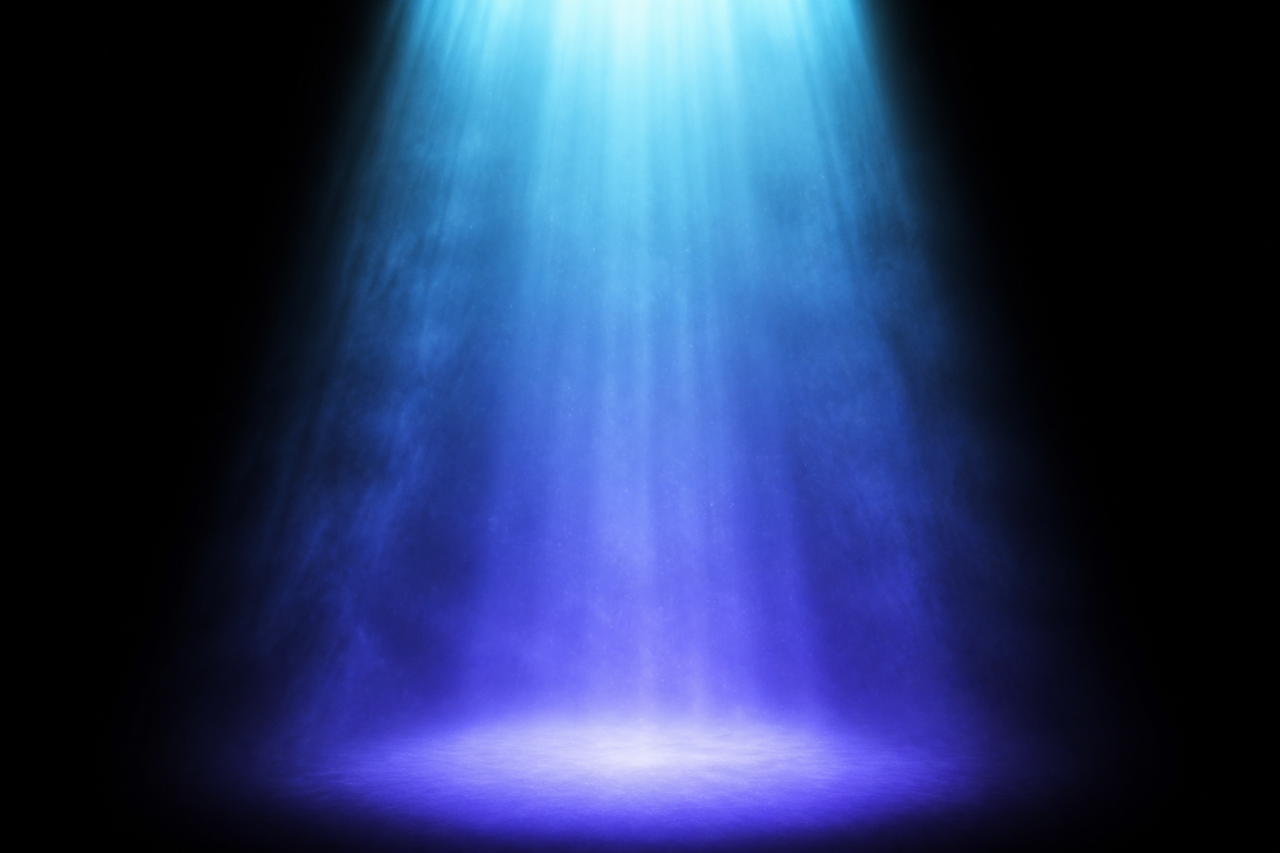
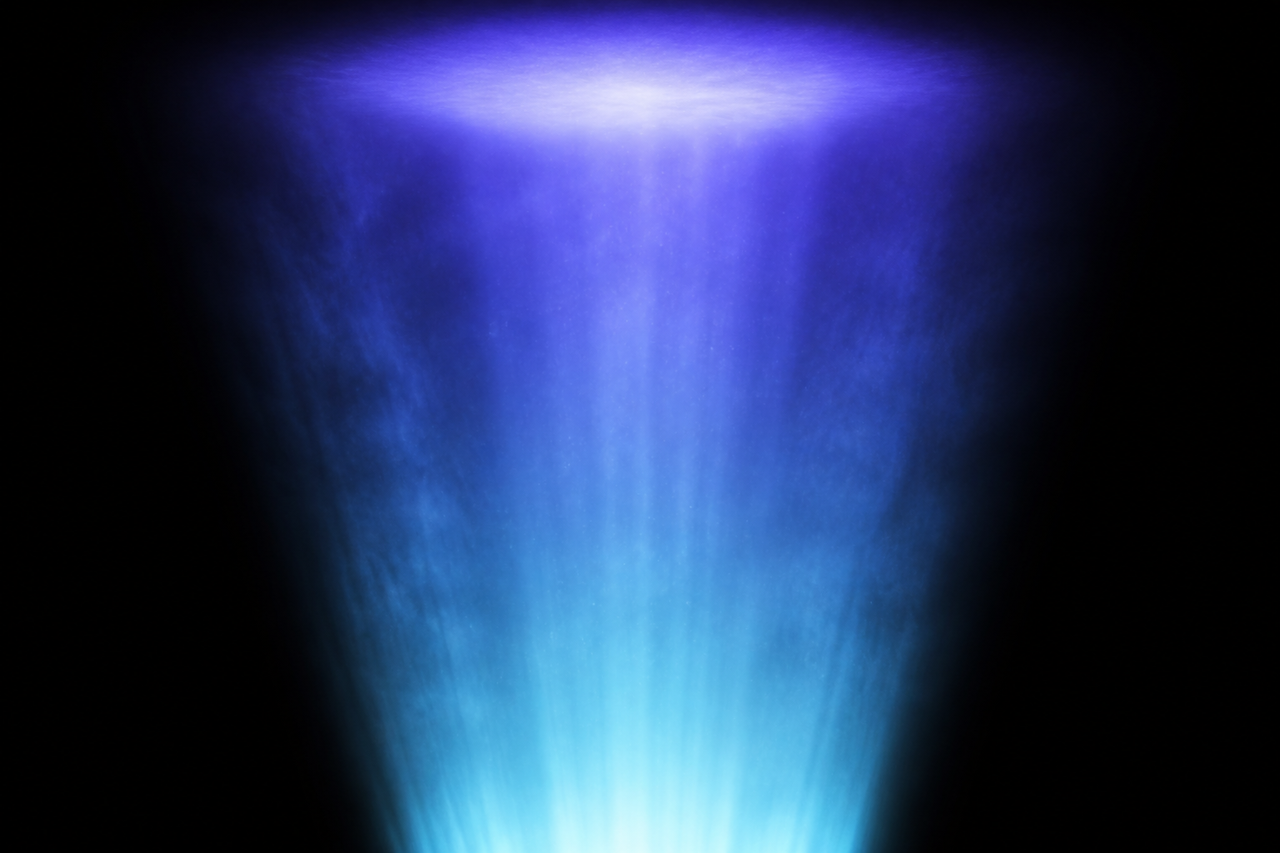
spotlight flipped: the light RISES from the section's base, strip closes the page
The post strip returns to the section's close, and the beam inverts to
match — light welling up from beneath the cards instead of falling on
them.

Flipped at the SOURCE, not with a transform: transform: scaleY(-1) on
a mix-blend-mode element silently drops the blend (measured — pixels
identical with the beam on and off). So the painted gradients anchor
below the bottom edge, the three renders are mirrored on disk, the
vertical mask fades from the top instead of the tail, and the light
theme's radials anchor low.

diff --git a/docs_v2/.vitepress/theme/custom.css b/docs_v2/.vitepress/theme/custom.css
@@ -4097,17 +4097,18 @@ html {
      matching BEAMS[0] (the painted column) */
   background-image: var(
     --ivue-beam,
-    radial-gradient(30% 62% at 50% -6%, rgba(186, 245, 253, 0.34), transparent 72%),
-    radial-gradient(52% 82% at 50% -8%, rgba(103, 232, 249, 0.22), transparent 74%),
-    radial-gradient(88% 96% at 50% -12%, rgba(99, 102, 241, 0.16), transparent 76%),
-    radial-gradient(64% 26% at 50% 46%, rgba(125, 211, 252, 0.1), transparent 72%)
+    radial-gradient(30% 62% at 50% 106%, rgba(186, 245, 253, 0.34), transparent 72%),
+    radial-gradient(52% 82% at 50% 108%, rgba(103, 232, 249, 0.22), transparent 74%),
+    radial-gradient(88% 96% at 50% 112%, rgba(99, 102, 241, 0.16), transparent 76%),
+    radial-gradient(64% 26% at 50% 54%, rgba(125, 211, 252, 0.1), transparent 72%)
   );
   background-size: 100% 100%;
   background-repeat: no-repeat;
   background-position: top center;
   mix-blend-mode: screen;
-  /* the beam LIGHTS the mark; it must not wash the prose below it */
+  /* the beam LIGHTS the strip; it must not wash the prose above it */
   opacity: 0.6;
+
   /* the beam's own top edge is a hard cut — feather it INTO the
      aurora line so the light appears to be born from the line */
   /* The art is not pure black at its edges (dark navy), and screen
@@ -4116,9 +4117,9 @@ html {
      starts full-strength at the aurora line, born from it), and a
      horizontal feather so the box's own left/right edges dissolve
      instead of ending in a seam. */
-  -webkit-mask-image: linear-gradient(180deg, black, black 62%, transparent 97%),
+  -webkit-mask-image: linear-gradient(180deg, transparent 3%, black 38%, black),
     linear-gradient(90deg, transparent, black 14%, black 86%, transparent);
-  mask-image: linear-gradient(180deg, black, black 62%, transparent 97%),
+  mask-image: linear-gradient(180deg, transparent 3%, black 38%, black),
     linear-gradient(90deg, transparent, black 14%, black 86%, transparent);
   -webkit-mask-composite: source-in;
   mask-composite: intersect;
@@ -4136,9 +4137,9 @@ html {
   background-image:
     /* nearly full width at the top, fading down and out — a wide wash
        of daylight rather than a defined shaft */
-    radial-gradient(96% 78% at 50% -10%, rgba(103, 232, 249, 0.34), transparent 76%),
-    radial-gradient(130% 92% at 50% -4%, rgba(99, 102, 241, 0.13), transparent 78%),
-    linear-gradient(180deg, rgba(45, 212, 191, 0.08), transparent 62%);
+    radial-gradient(96% 78% at 50% 110%, rgba(103, 232, 249, 0.34), transparent 76%),
+    radial-gradient(130% 92% at 50% 104%, rgba(99, 102, 241, 0.13), transparent 78%),
+    linear-gradient(0deg, rgba(45, 212, 191, 0.08), transparent 62%);
   background-size: 100% 100%;
   mix-blend-mode: normal;
   opacity: 1;
@@ -4154,10 +4155,10 @@ html {
 .ix .ix-newsletter-hero .drip-showcase {
   position: relative;
   z-index: 1;
-  margin-top: 10px;
-  margin-bottom: 6px;
+  margin-top: 26px;
+  margin-bottom: 0;
   padding-top: 0;
-  padding-bottom: 8px;
+  padding-bottom: 6px;
 }
 .ix .ix-newsletter-hero .drip-showcase::before {
   display: none;

diff --git a/docs_v2/.vitepress/theme/components/SpotlightBeam.ts b/docs_v2/.vitepress/theme/components/SpotlightBeam.ts
@@ -75,11 +75,15 @@ export namespace SpotlightBeam {
    *  background-image values, so painted and photographic beams live
    *  in one list. The painted one leads: it costs no bytes, scales to
    *  any width, and never has edges to clip. */
+  /** Anchored BELOW the bottom edge: the light rises from the section's
+   *  base, where the post strip stands. (A CSS transform would flip it
+   *  in one line, but a transform on a mix-blend-mode element drops the
+   *  blend entirely — measured: identical pixels with it on and off.) */
   export const PAINTED_COLUMN = [
-    'radial-gradient(30% 62% at 50% -6%, rgba(186, 245, 253, 0.34), transparent 72%)',
-    'radial-gradient(52% 82% at 50% -8%, rgba(103, 232, 249, 0.22), transparent 74%)',
-    'radial-gradient(88% 96% at 50% -12%, rgba(99, 102, 241, 0.16), transparent 76%)',
-    'radial-gradient(64% 26% at 50% 46%, rgba(125, 211, 252, 0.10), transparent 72%)',
+    'radial-gradient(30% 62% at 50% 106%, rgba(186, 245, 253, 0.34), transparent 72%)',
+    'radial-gradient(52% 82% at 50% 108%, rgba(103, 232, 249, 0.22), transparent 74%)',
+    'radial-gradient(88% 96% at 50% 112%, rgba(99, 102, 241, 0.16), transparent 76%)',
+    'radial-gradient(64% 26% at 50% 54%, rgba(125, 211, 252, 0.10), transparent 72%)',
   ].join(', ');
 
   export const BEAMS: Beam[] = [

diff --git a/docs_v2/index.md b/docs_v2/index.md
@@ -407,8 +407,6 @@ flyweight state, and lifecycle discipline, all in one real codebase.
 
 <SpotlightBeam />
 
-<BlogDripShowcase />
-
 ## The future of JavaScript, delivered
 
 <p class="lead ix-newsletter-hero__lead">
@@ -429,6 +427,8 @@ The whole blog lands in your inbox in {{ $archiveDays }} days — one post every
 <p class="ix-newsletter-hero__note">
 The whole archive is open — <a href="/blog/">browse the blog →</a>
 </p>
+
+<BlogDripShowcase />
 
 </section>
 
